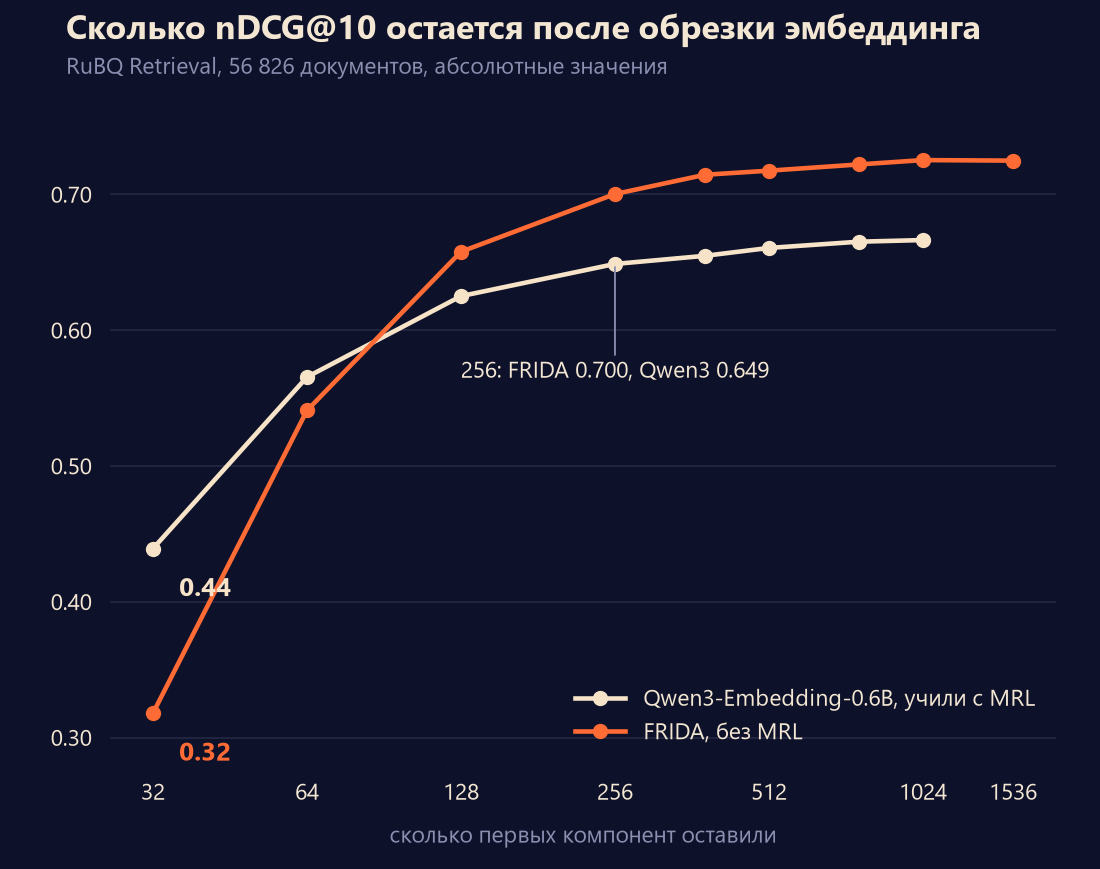
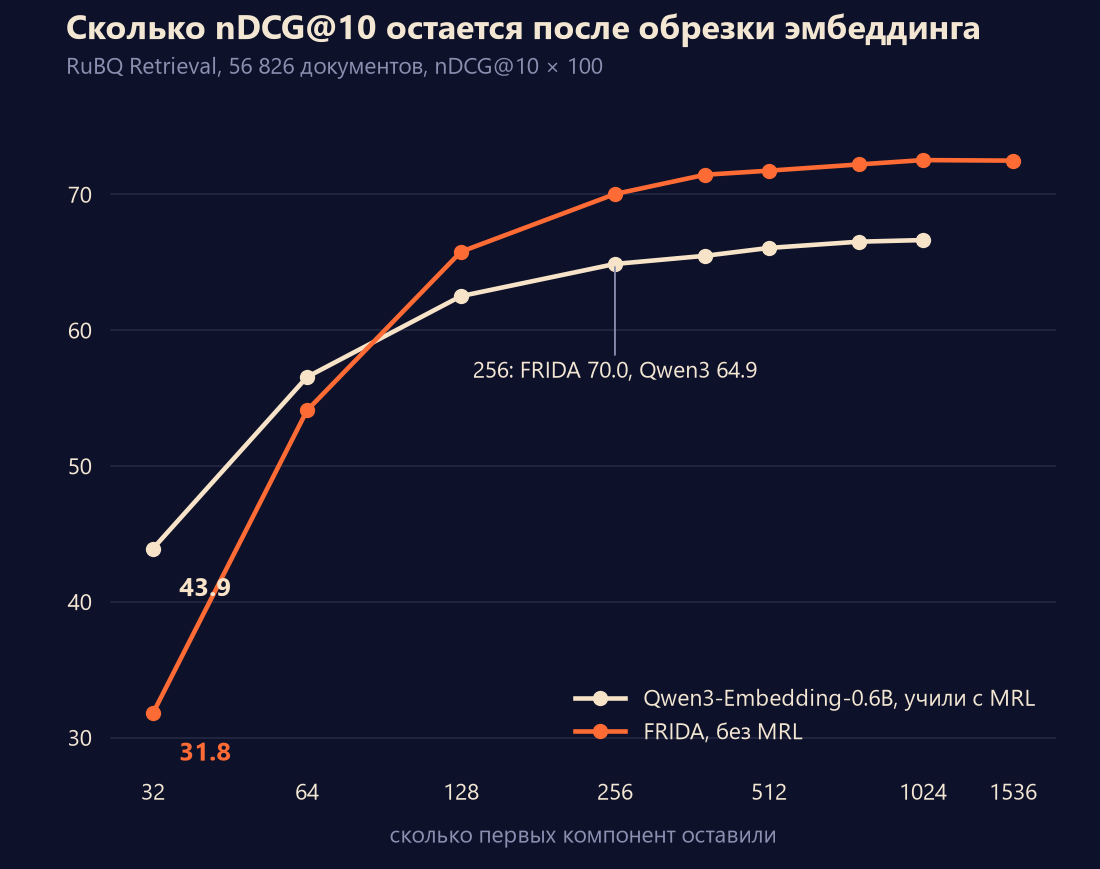
mrl: show metrics x100 in charts and table

diff --git a/mrl/post_card.py b/mrl/post_card.py
@@ -12,6 +12,7 @@ BG, GRID, TEXT, MUTED = "#0d1129", "#262b47", "#f3e6d3", "#8b8fb0"
 QWEN, FRIDA = "#f6e3c8", "#ff6b35"
 
 df = pd.read_csv(ROOT / "results.csv")
+df[["ndcg10", "recall100"]] *= 100  # show metrics as 0-100
 q = df[df.model == "Qwen3-Embedding-0.6B"].sort_values("dim")
 f = df[df.model == "FRIDA"].sort_values("dim")
 
@@ -28,9 +29,8 @@ ticks = [32, 64, 128, 256, 512, 1024, 1536]
 ax.set_xticks(ticks)
 ax.set_xticklabels([str(t) for t in ticks])
 ax.minorticks_off()
-ax.set_ylim(0.28, 0.76)
-ax.set_yticks([0.3, 0.4, 0.5, 0.6, 0.7])
-ax.set_yticklabels(["0.30", "0.40", "0.50", "0.60", "0.70"])
+ax.set_ylim(28, 76)
+ax.set_yticks([30, 40, 50, 60, 70])
 ax.grid(axis="y", color=GRID, lw=1)
 ax.tick_params(colors=TEXT, labelsize=15, length=0, pad=12)
 for s in ax.spines.values():
@@ -39,16 +39,16 @@ ax.set_xlabel("сколько первых компонент оставили",
 
 # annotations
 v = lambda d, m: float(d.loc[d.dim == m, "ndcg10"].iloc[0])
-ax.annotate(f"{v(q, 32):.2f}", (32, v(q, 32)), xytext=(36, v(q, 32) - 0.035), color=QWEN, fontsize=17, fontweight="bold")
-ax.annotate(f"{v(f, 32):.2f}", (32, v(f, 32)), xytext=(36, v(f, 32) - 0.035), color=FRIDA, fontsize=17, fontweight="bold")
+ax.annotate(f"{v(q, 32):.1f}", (32, v(q, 32)), xytext=(36, v(q, 32) - 3.5), color=QWEN, fontsize=17, fontweight="bold")
+ax.annotate(f"{v(f, 32):.1f}", (32, v(f, 32)), xytext=(36, v(f, 32) - 3.5), color=FRIDA, fontsize=17, fontweight="bold")
 ax.annotate(
-    f"256: FRIDA {v(f, 256):.3f}, Qwen3 {v(q, 256):.3f}",
-    xy=(256, v(q, 256)), xytext=(256, 0.565), ha="center", color=TEXT, fontsize=15,
+    f"256: FRIDA {v(f, 256):.1f}, Qwen3 {v(q, 256):.1f}",
+    xy=(256, v(q, 256)), xytext=(256, 56.5), ha="center", color=TEXT, fontsize=15,
     arrowprops=dict(arrowstyle="-", color=MUTED, lw=1.2),
 )
 
 leg = ax.legend(loc="lower right", frameon=False, fontsize=15, labelcolor=TEXT, handlelength=2.2)
 fig.text(0.06, 0.955, "Сколько nDCG@10 остается после обрезки эмбеддинга", color=TEXT, fontsize=22, fontweight="bold")
-fig.text(0.06, 0.915, "RuBQ Retrieval, 56 826 документов, абсолютные значения", color=MUTED, fontsize=15)
+fig.text(0.06, 0.915, "RuBQ Retrieval, 56 826 документов, nDCG@10 × 100", color=MUTED, fontsize=15)
 fig.subplots_adjust(left=0.1, right=0.96, top=0.87, bottom=0.12)
 fig.savefig(ROOT / "post_card.png", facecolor=BG)

diff --git a/mrl/run_mrl.py b/mrl/run_mrl.py
@@ -122,7 +122,7 @@ def write_md(df):
         "# MRL / truncation: RuBQ Retrieval (ruMTEB)",
         "",
         "Эмбеддинги в полной размерности обрезаются до первых k компонент и заново L2-нормируются.",
-        "В скобках — % от полной размерности модели.",
+        "Метрики × 100. В скобках — % от полной размерности модели.",
         "",
         "| dim | FRIDA nDCG@10 | Qwen3-0.6B nDCG@10 | FRIDA R@100 | Qwen3-0.6B R@100 |",
         "|---:|---:|---:|---:|---:|",
@@ -133,7 +133,7 @@ def write_md(df):
         if (model, d) not in idx.index:
             return "—"
         r = idx.loc[(model, d)]
-        return f"{r[m]:.3f} ({r[m + '_pct']:.0f}%)"
+        return f"{100 * r[m]:.1f} ({r[m + '_pct']:.0f}%)"
 
     for d in dims:
         lines.append(
@@ -155,8 +155,8 @@ def plot(df):
     for model, g in df.groupby("model"):
         g = g.sort_values("dim")
         kw = dict(marker="o", color=colors[model], label=labels[model], lw=2)
-        axes[0].plot(g.dim, g.ndcg10, **kw)
-        axes[1].plot(g.dim, g.recall100, **kw)
+        axes[0].plot(g.dim, 100 * g.ndcg10, **kw)
+        axes[1].plot(g.dim, 100 * g.recall100, **kw)
     ticks = [d for d in sorted(df.dim.unique()) if d not in (384, 768)]  # avoid label overlap
     for ax, title, ylabel in (
         (axes[0], "nDCG@10", "nDCG@10"),

diff --git a/mrl/results.md b/mrl/results.md
@@ -1,16 +1,16 @@
 # MRL / truncation: RuBQ Retrieval (ruMTEB)
 
 Эмбеддинги в полной размерности обрезаются до первых k компонент и заново L2-нормируются.
-В скобках — % от полной размерности модели.
+Метрики × 100. В скобках — % от полной размерности модели.
 
 | dim | FRIDA nDCG@10 | Qwen3-0.6B nDCG@10 | FRIDA R@100 | Qwen3-0.6B R@100 |
 |---:|---:|---:|---:|---:|
-| 1536 | 0.725 (100%) | — | 0.934 (100%) | — |
-| 1024 | 0.725 (100%) | 0.666 (100%) | 0.933 (100%) | 0.931 (100%) |
-| 768 | 0.722 (100%) | 0.665 (100%) | 0.928 (99%) | 0.927 (100%) |
-| 512 | 0.717 (99%) | 0.661 (99%) | 0.921 (99%) | 0.921 (99%) |
-| 384 | 0.714 (99%) | 0.655 (98%) | 0.920 (99%) | 0.913 (98%) |
-| 256 | 0.700 (97%) | 0.649 (97%) | 0.907 (97%) | 0.906 (97%) |
-| 128 | 0.658 (91%) | 0.625 (94%) | 0.880 (94%) | 0.881 (95%) |
-| 64 | 0.541 (75%) | 0.566 (85%) | 0.787 (84%) | 0.831 (89%) |
-| 32 | 0.318 (44%) | 0.439 (66%) | 0.616 (66%) | 0.746 (80%) |
+| 1536 | 72.5 (100%) | — | 93.4 (100%) | — |
+| 1024 | 72.5 (100%) | 66.6 (100%) | 93.3 (100%) | 93.1 (100%) |
+| 768 | 72.2 (100%) | 66.5 (100%) | 92.8 (99%) | 92.7 (100%) |
+| 512 | 71.7 (99%) | 66.1 (99%) | 92.1 (99%) | 92.1 (99%) |
+| 384 | 71.4 (99%) | 65.5 (98%) | 92.0 (99%) | 91.3 (98%) |
+| 256 | 70.0 (97%) | 64.9 (97%) | 90.7 (97%) | 90.6 (97%) |
+| 128 | 65.8 (91%) | 62.5 (94%) | 88.0 (94%) | 88.1 (95%) |
+| 64 | 54.1 (75%) | 56.6 (85%) | 78.7 (84%) | 83.1 (89%) |
+| 32 | 31.8 (44%) | 43.9 (66%) | 61.6 (66%) | 74.6 (80%) |
